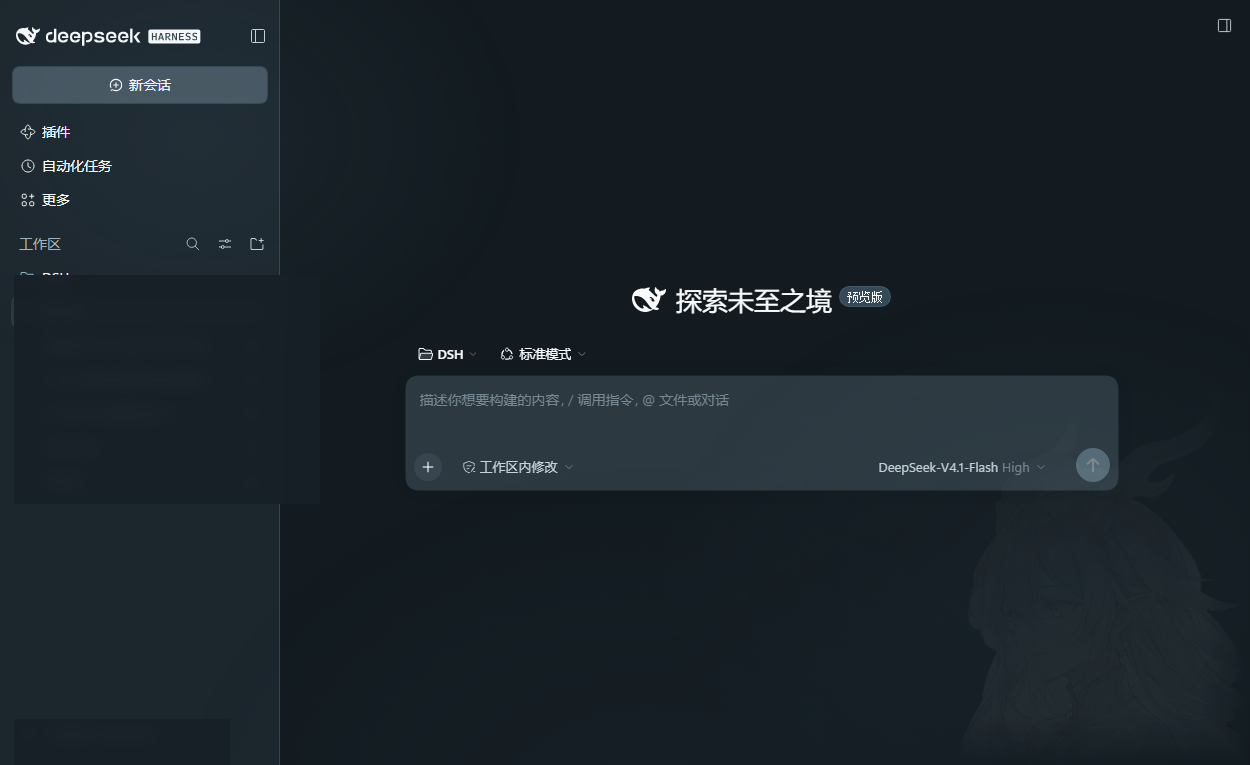
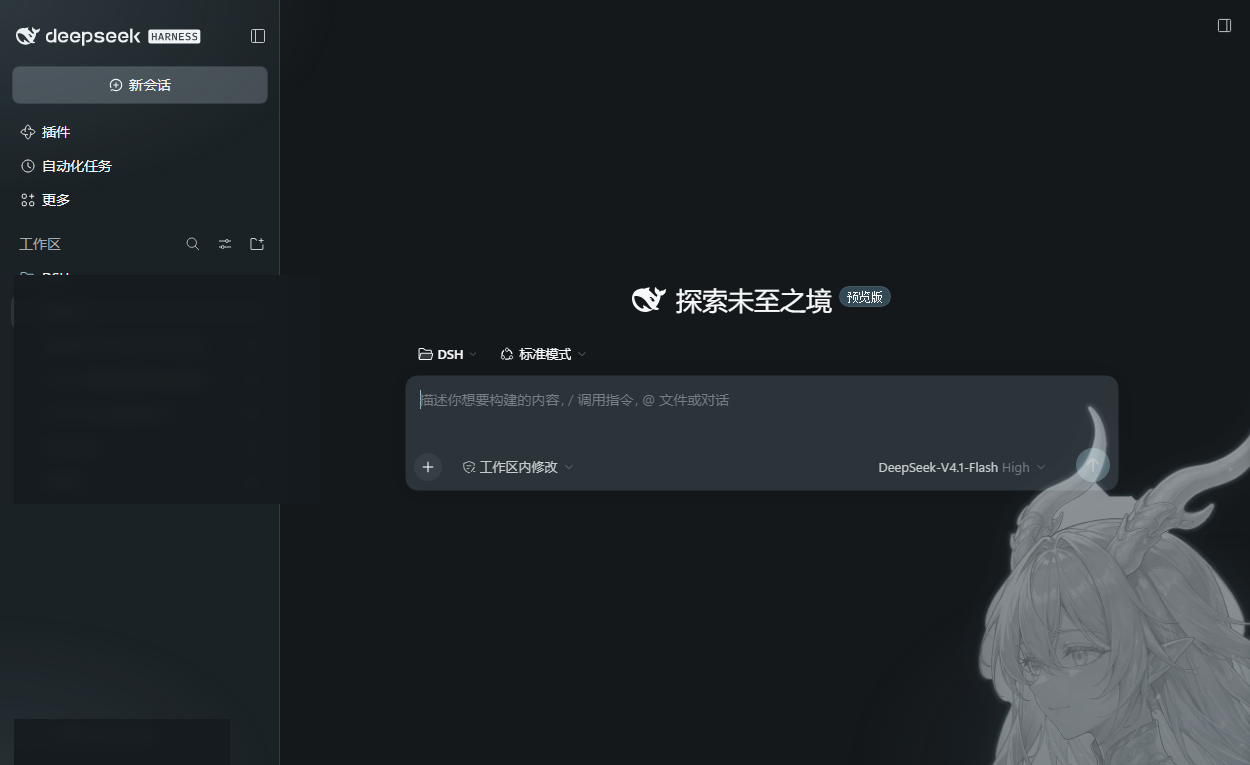
feat: neutral palette, focal character, guest collaboration plan
- Drop the blue cast: the colour ramps are now neutral cool greys, so
  the UI reads as mist-white rather than blue-grey. Blue survives only
  in the brand accent tokens (buttons, focus) and inside the artwork.
- Rebuild the portrait: alpha lifted from a 19% cap, internal lines
  darkened by luminance, outline dilated, outer glow and bottom fade
  added, so the character reads clearly on light and dark surfaces.
- Enlarge and reposition the character as the focal point: anchored to
  the bottom-right corner with a soft left edge and a slight bleed.
- Dark mode uses screen blending so she reads as a lit silhouette in
  the mist instead of a grey cut-out.
- docs/guest-dafeiyu.md: collaboration plan for the community
  "大肥鱼" character, including the licence split that keeps the main
  package MIT.

Changed region(s): [[0.78, 0.5412, 1.0, 1.0]]

diff --git a/theme.css b/theme.css
@@ -20,28 +20,28 @@
 html body,
 html body[data-ds-dark-theme] {
   /* 雾白 → 深岫：浅色端冷白，深色端带蓝的暗面 */
-  --dsw-static-neutral-bluish-00: #fdfefe;
-  --dsw-static-neutral-bluish-50: #fafcfd;
-  --dsw-static-neutral-bluish-55: #f7fafc;
-  --dsw-static-neutral-bluish-60: #fbfdfe;
-  --dsw-static-neutral-bluish-75: #f2f6f9;
-  --dsw-static-neutral-bluish-90: #edf2f5;
-  --dsw-static-neutral-bluish-100: #e7edf1;
-  --dsw-static-neutral-bluish-150: #e3eaef;
-  --dsw-static-neutral-bluish-200: #dbe4ea;
-  --dsw-static-neutral-bluish-300: #c7d3da;
-  --dsw-static-neutral-bluish-310: #c1cfd7;
-  --dsw-static-neutral-bluish-400: #a5b3bb;
-  --dsw-static-neutral-bluish-500: #8d9da6;
-  --dsw-static-neutral-bluish-600: #778892;
-  --dsw-static-neutral-bluish-700: #5d6e78;
-  --dsw-static-neutral-bluish-750: #465560;
-  --dsw-static-neutral-bluish-800: #37454e;
-  --dsw-static-neutral-bluish-850: #2d3941;
-  --dsw-static-neutral-bluish-875: #253139;
-  --dsw-static-neutral-bluish-900: #1c262d;
-  --dsw-static-neutral-bluish-950: #161f25;
-  --dsw-static-neutral-bluish-1000: #10181d;
+  --dsw-static-neutral-bluish-00: #fcfdfd;
+  --dsw-static-neutral-bluish-50: #f8fafb;
+  --dsw-static-neutral-bluish-55: #f5f8f9;
+  --dsw-static-neutral-bluish-60: #fafbfc;
+  --dsw-static-neutral-bluish-75: #eff2f4;
+  --dsw-static-neutral-bluish-90: #e9edef;
+  --dsw-static-neutral-bluish-100: #e3e8ea;
+  --dsw-static-neutral-bluish-150: #dfe4e7;
+  --dsw-static-neutral-bluish-200: #d7dde0;
+  --dsw-static-neutral-bluish-300: #c5ccd0;
+  --dsw-static-neutral-bluish-310: #bfc7cc;
+  --dsw-static-neutral-bluish-400: #a3abb0;
+  --dsw-static-neutral-bluish-500: #8b949a;
+  --dsw-static-neutral-bluish-600: #757e84;
+  --dsw-static-neutral-bluish-700: #5b656b;
+  --dsw-static-neutral-bluish-750: #454e54;
+  --dsw-static-neutral-bluish-800: #363f45;
+  --dsw-static-neutral-bluish-850: #2c3439;
+  --dsw-static-neutral-bluish-875: #242b30;
+  --dsw-static-neutral-bluish-900: #1b2226;
+  --dsw-static-neutral-bluish-950: #151b1f;
+  --dsw-static-neutral-bluish-1000: #0f1417;
 
   /* 主色：雾蓝青（品牌 / 主按钮 / 焦点） */
   --dsw-static-deepseek-50: #f1f6f9;
@@ -71,7 +71,7 @@ html body[data-ds-dark-theme] {
   --dsw-static-blue-950: #1b2f39;
 
   /* 纯灰：去掉原色的黄调，跟主体保持同一冷调 */
-  --dsw-static-neutral-00: #fdfefe;
+  --dsw-static-neutral-00: #fcfdfd;
   --dsw-static-neutral-50: #fafbfb;
   --dsw-static-neutral-100: #f5f7f7;
   --dsw-static-neutral-150: #edf0f0;
@@ -113,35 +113,35 @@ html body {
    ========================================================================== */
 
 html body {
-  --dsw-alias-bg-base: #e9f1f5;
+  --dsw-alias-bg-base: #f1f3f4;
   --dsw-alias-bg-layer-1: #ffffff;
-  --dsw-alias-bg-layer-2: #f8fbfd;
-  --dsw-alias-bg-layer-3: #e3edf2;
-  --dsw-alias-bg-overlay: #e3eef3;
-  --dsw-alias-border-l1: #d7e4eb;
-  --dsw-alias-border-l2: #ccdce6;
-  --dsw-alias-border-l3: #bed2de;
-  --dsw-alias-bg-skeleton: #dce8ee;
+  --dsw-alias-bg-layer-2: #fafbfb;
+  --dsw-alias-bg-layer-3: #eceff0;
+  --dsw-alias-bg-overlay: #e8ecee;
+  --dsw-alias-border-l1: #dee2e4;
+  --dsw-alias-border-l2: #d4d9dc;
+  --dsw-alias-border-l3: #c8ced2;
+  --dsw-alias-bg-skeleton: #e0e5e7;
   --dsw-alias-bg-document-selection: color-mix(
     in srgb, var(--dsw-static-deepseek-500) 26%, transparent
   );
   --dsw-focus-ring-color: var(--dsw-static-deepseek-500);
-  --dsw-alias-scrollbar-bg-l1: color-mix(in srgb, #8d9da6 34%, transparent);
-  --dsw-alias-scrollbar-hover-l1: color-mix(in srgb, #778892 58%, transparent);
-  --dsw-alias-scrollbar-bg-l2: color-mix(in srgb, #a5b3bb 40%, transparent);
-  --dsw-alias-scrollbar-hover-l2: color-mix(in srgb, #8d9da6 64%, transparent);
+  --dsw-alias-scrollbar-bg-l1: color-mix(in srgb, #8b949a 34%, transparent);
+  --dsw-alias-scrollbar-hover-l1: color-mix(in srgb, #757e84 58%, transparent);
+  --dsw-alias-scrollbar-bg-l2: color-mix(in srgb, #a3abb0 40%, transparent);
+  --dsw-alias-scrollbar-hover-l2: color-mix(in srgb, #8b949a 64%, transparent);
 }
 
 html body[data-ds-dark-theme] {
-  --dsw-alias-bg-base: #131b20;
-  --dsw-alias-bg-layer-1: #1a2429;
-  --dsw-alias-bg-layer-2: #1e2a30;
-  --dsw-alias-bg-layer-3: #162026;
-  --dsw-alias-bg-overlay: #223038;
-  --dsw-alias-border-l1: #243138;
-  --dsw-alias-border-l2: #2b3941;
-  --dsw-alias-border-l3: #34454e;
-  --dsw-alias-bg-skeleton: #1f2a30;
+  --dsw-alias-bg-base: #14181b;
+  --dsw-alias-bg-layer-1: #1b2024;
+  --dsw-alias-bg-layer-2: #1f252a;
+  --dsw-alias-bg-layer-3: #171c20;
+  --dsw-alias-bg-overlay: #232a2f;
+  --dsw-alias-border-l1: #262c31;
+  --dsw-alias-border-l2: #2d3439;
+  --dsw-alias-border-l3: #363e44;
+  --dsw-alias-bg-skeleton: #20262b;
 }
 
 /* ==========================================================================
@@ -157,40 +157,38 @@ body::after {
   z-index: 1;
 }
 
-/* 雾气只在四角聚拢，中央留白 */
+/* 雾气：中性灰调，只在四角聚拢，中央留白 */
 body::before {
   inset: 0;
   background-image:
-    radial-gradient(50vw 48vh at 0% 0%, rgba(146, 184, 203, 0.20), transparent 62%),
-    radial-gradient(54vw 52vh at 100% 100%, rgba(84, 122, 145, 0.20), transparent 64%),
-    radial-gradient(44vw 40vh at 0% 100%, rgba(120, 158, 180, 0.13), transparent 58%),
-    radial-gradient(40vw 36vh at 100% 0%, rgba(162, 196, 212, 0.12), transparent 56%);
+    radial-gradient(46vw 44vh at 0% 0%, rgba(160, 166, 170, 0.17), transparent 60%),
+    radial-gradient(52vw 50vh at 100% 100%, rgba(118, 126, 132, 0.19), transparent 62%),
+    radial-gradient(40vw 36vh at 0% 100%, rgba(148, 154, 158, 0.10), transparent 56%),
+    radial-gradient(38vw 34vh at 100% 0%, rgba(170, 176, 180, 0.10), transparent 54%);
   animation: yunlan-mist 46s ease-in-out infinite alternate;
 }
 
-/* 白龙底纹：右下角，向内渐隐以免露出矩形容器边界 */
+/* 云澜立绘：压在右下角、略微出血，作为画面的视觉锚点 */
 body::after {
-  inset: auto 0 0 auto;
-  width: min(42vw, 560px);
-  height: min(58vh, 700px);
+  inset: auto -4% -9% auto;
+  width: min(38vw, 520px);
+  height: min(66vh, 800px);
   background: url("/dsh-yunlan/portrait.webp") no-repeat right bottom / contain;
-  opacity: 0.6;
-  filter: saturate(0.85);
-  -webkit-mask-image: radial-gradient(118% 104% at 100% 100%, #000 34%, rgba(0, 0, 0, 0.55) 62%, transparent 88%);
-  mask-image: radial-gradient(118% 104% at 100% 100%, #000 34%, rgba(0, 0, 0, 0.55) 62%, transparent 88%);
+  opacity: 0.9;
+  -webkit-mask-image: linear-gradient(to right, transparent 0%, rgba(0, 0, 0, 0.45) 14%, #000 38%);
+  mask-image: linear-gradient(to right, transparent 0%, rgba(0, 0, 0, 0.45) 14%, #000 38%);
 }
 
 body[data-ds-dark-theme]::before {
   background-image:
-    radial-gradient(50vw 48vh at 0% 0%, rgba(122, 168, 190, 0.22), transparent 62%),
-    radial-gradient(54vw 52vh at 100% 100%, rgba(70, 108, 132, 0.24), transparent 64%),
-    radial-gradient(44vw 40vh at 0% 100%, rgba(96, 138, 162, 0.16), transparent 58%),
-    radial-gradient(40vw 36vh at 100% 0%, rgba(132, 172, 194, 0.14), transparent 56%);
+    radial-gradient(46vw 44vh at 0% 0%, rgba(146, 172, 186, 0.16), transparent 60%),
+    radial-gradient(52vw 50vh at 100% 100%, rgba(84, 106, 120, 0.22), transparent 62%),
+    radial-gradient(40vw 36vh at 0% 100%, rgba(120, 146, 160, 0.12), transparent 56%);
 }
 
 body[data-ds-dark-theme]::after {
-  opacity: 0.34;
-  filter: saturate(0.6) brightness(1.15);
+  opacity: 0.6;
+  filter: brightness(1.08) saturate(0.85);
   mix-blend-mode: screen;
 }
 

diff --git a/docs/guest-dafeiyu.md b/docs/guest-dafeiyu.md
@@ -1,0 +1,154 @@
+# 联名方案：云澜 × 大肥鱼
+
+> 目标：在现有的 `dsh-yunlan-theme` 上接入 GitHub 社区的「大肥鱼」形象，做成可开关的客座角色，**不改动主包配色、布局与功能**。
+
+## 0. 先解决授权，它决定了方案形态
+
+| 对象 | 来源 | 授权 |
+| --- | --- | --- |
+| 大肥鱼（DeepSeek 鲸鱼娘） | 社区二创，最早可追溯到 B 站 UP 主「上善无形」的原创角色「溟月」，后由「ZipZipPipe」加入 DeepSeek 元素 | **CC BY-NC-SA 4.0** |
+| 本主题 | 本仓库 | MIT |
+
+CC BY-NC-SA 的三条硬约束：**署名、非商业、相同方式共享**。
+
+**结论：不要把大肥鱼素材并进 MIT 主包。**
+拆成两个包：
+
+```
+dsh-yunlan-theme              MIT              主体配色 + 云澜立绘
+dsh-yunlan-guest-dafeiyu      CC BY-NC-SA 4.0  只含大肥鱼素材与角色位覆盖
+```
+
+联动包依赖主包，卸载后主包完全不受影响。这样主包可以继续以 MIT 发布、可以被商用项目引用，联动包单独承担授权义务。
+
+素材必须从**授权的原始来源**获取（上游仓库/作者发布页），并在联动包的 `ATTRIBUTION.md` 里写清：原作者、原始链接、协议、是否修改过（我们做了 alpha 提升与描边处理，属于「修改」，需要注明）。
+
+## 1. 联动主题
+
+**「雾中客座」**
+
+设定：云澜是常驻，大肥鱼是路过的客人。两者**不同时出现**——靠雾气切换，而不是左右并排。
+
+这条规则是整个方案的地基。同时放两个二次元立绘必然杂乱，也与「雾面克制」的基调冲突。
+
+## 2. 视觉元素怎么融入
+
+不整身照搬，只取三个识别点：
+
+| 元素 | 用在哪 | 说明 |
+| --- | --- | --- |
+| 深蓝渐变长发 | 角色位主色 | 全界面唯一的高饱和蓝，作为视觉焦点 |
+| 鲸尾 | 角色位下沿剪影 | 最经济的识别符号，小尺寸也能认出 |
+| 白围裙 + 蓝胸针 | 仅 60px 侧栏小立绘 | 太细，大图里反而淹没 |
+
+**配色纪律**：她的蓝紫（`#3A4A8C` 系）只允许出现在角色素材内部，**不进入 `--dsw-*` token**。界面仍然是中性灰白，蓝色只作为「画面里唯一一点颜色」，对比越强，角色越突出。
+
+## 3. 展示位置（三选一，默认只开第一个）
+
+| # | 位置 | 形式 | 默认 |
+| --- | --- | --- | --- |
+| 1 | 右下角角色位 | 与云澜同一位置，替换 | **开** |
+| 2 | 侧栏底部 | 60×60 小立绘，悬停放大 | 关 |
+| 3 | 新会话空状态 | 标题右侧 160px 插画 | 关 |
+
+互斥实现：一个 `data-guest` 属性控制，同时只能取一个值。
+
+```css
+html body[data-guest="dafeiyu"]::after {
+  background-image: url("/dsh-yunlan-guest/portrait.webp");
+}
+```
+
+## 4. 交互细节
+
+只做四条，够用且不打扰：
+
+1. **悬停**：角色上浮 6px、轻微放大 1.02，头发与尾巴摆动一次（0.6s ease-out）。用透明热区 + `:has()` 驱动伪元素：
+
+   ```css
+   #yunlan-guest-hotspot { position: fixed; right: 0; bottom: 0; width: 38vw; height: 66vh; z-index: 2; }
+   body:has(#yunlan-guest-hotspot:hover)::after {
+     transform: translateY(-6px) scale(1.02);
+     transition: transform 0.6s cubic-bezier(.22,.61,.36,1);
+   }
+   ```
+
+2. **点击**：切「鼓腮抗议」表情（3 帧，各 400ms），底部浮一行短句（`我不是大肥鱼……`），2.4s 后消失。不弹窗、不抢焦点。
+
+3. **空闲 30s**：眨眼一次。用 `animation-delay` + 长周期 `steps()`，零 JS。
+
+4. **隐藏**：右键角色位 → 菜单「隐藏客座」，写入 `localStorage.dshYunlanGuest = 'off'`，`client.js` 首帧读取并设 `data-guest="none"`。
+
+全部动效包在 `@media (prefers-reduced-motion: no-preference)` 里。
+
+## 5. 实现结构
+
+```
+dsh-yunlan-guest-dafeiyu/
+├── package.json          # dsh.bundle.patch + dsh.client，依赖 dsh-yunlan-theme
+├── cordis.patch.yml      # insert: id: dsh-yunlan-guest-dafeiyu
+├── index.js              # 只注册 /dsh-yunlan-guest/* 两条路由
+├── client.js             # 注入 <link guest.css> + 热区 div + 点击/右键逻辑
+├── guest.css             # 只覆盖角色位，不动 token
+├── assets/
+│   ├── portrait.webp     # 主立绘（透明，带描边）
+│   └── face-pout.webp    # 鼓腮表情
+├── ATTRIBUTION.md        # CC BY-NC-SA 署名与修改说明
+├── LICENSE               # CC BY-NC-SA 4.0（仅本包）
+└── README.md
+```
+
+`guest.css` 只允许写这些选择器：`body::after`、`#yunlan-guest-hotspot`、`#yunlan-guest-line`。**不碰 `--dsw-*`**，所以主包换色时联动包不需要跟着改。
+
+`client.js` 骨架：
+
+```js
+window.__ModuleLoader__.load({
+  id: 'dsh-yunlan-guest-dafeiyu',
+  factory() {
+    return {
+      apply(ctx) {
+        if (localStorage.getItem('dshYunlanGuest') === 'off') return;
+        document.body.dataset.guest = 'dafeiyu';
+
+        const link = document.createElement('link');
+        link.rel = 'stylesheet';
+        link.href = '/dsh-yunlan-guest/guest.css';
+        document.head.appendChild(link);
+
+        const spot = document.createElement('div');
+        spot.id = 'yunlan-guest-hotspot';
+        spot.addEventListener('click', poke);
+        spot.addEventListener('contextmenu', hide);
+        document.body.appendChild(spot);
+
+        const off = () => { link.remove(); spot.remove(); delete document.body.dataset.guest; };
+        if (typeof ctx.effect === 'function') ctx.effect(() => off);
+      },
+    };
+  },
+});
+```
+
+## 6. 落地步骤
+
+1. **取素材**：从授权来源下载立绘/表情，记录作者与原链接写进 `ATTRIBUTION.md`。
+2. **处理成透明 webp**：沿用云澜那套管线——alpha 拉满、按亮度压内部线条、膨胀出描边、底部渐隐。输出 ≤ 200 KB。
+3. **写 `guest.css`**：只覆盖 `body::after` 的 `background-image` 与悬停/点击状态。
+4. **装包验证**：`dsh plugin --profile desktop add file:...`，重启后截图确认；再卸一次确认主包无残留。
+
+## 7. 明确不做的事
+
+排除项比功能列表更能防止画面变乱：
+
+- ❌ 不加第二套界面配色（她的蓝只留在图片里）
+- ❌ 不在正文区域加水印或小图案
+- ❌ 不同时显示云澜与大肥鱼
+- ❌ 不加音效、不加气泡弹窗、不加自动说话
+- ❌ 不替换 DSH 的图标集（`ThemeDefinition.icons` 留给将来真要做品牌替换时用）
+
+## 8. 落地前需要确认
+
+1. 素材来源与授权：用哪个仓库/作者的版本？需要你在上游确认可再分发。
+2. 默认开哪一处展示位（建议只开右下角角色位）。
+3. 是否需要「一句话台词」——若要，台词要不要走角色设定（聪明、嘴硬、贪吃，不默认叫主人）。

diff --git a/README.md b/README.md
@@ -58,6 +58,10 @@ dsh plugin --profile desktop remove dsh-yunlan-theme
 
 底纹换图：替换 `assets/portrait-corner.webp`（建议透明背景、Alpha 上限 20% 左右）。
 
+## 联名客座（规划）
+
+`docs/guest-dafeiyu.md` 记录了与社区形象「大肥鱼」的联动方案：做成独立可选包（`dsh-yunlan-guest-dafeiyu`），素材按 CC BY-NC-SA 4.0 单独授权，主包保持 MIT。同一时间只显示一个角色，配色 token 不受影响。
+
 ## 实现说明
 
 `index.js`（宿主侧）用 `ctx.webServer.register` 暴露两条路由：
